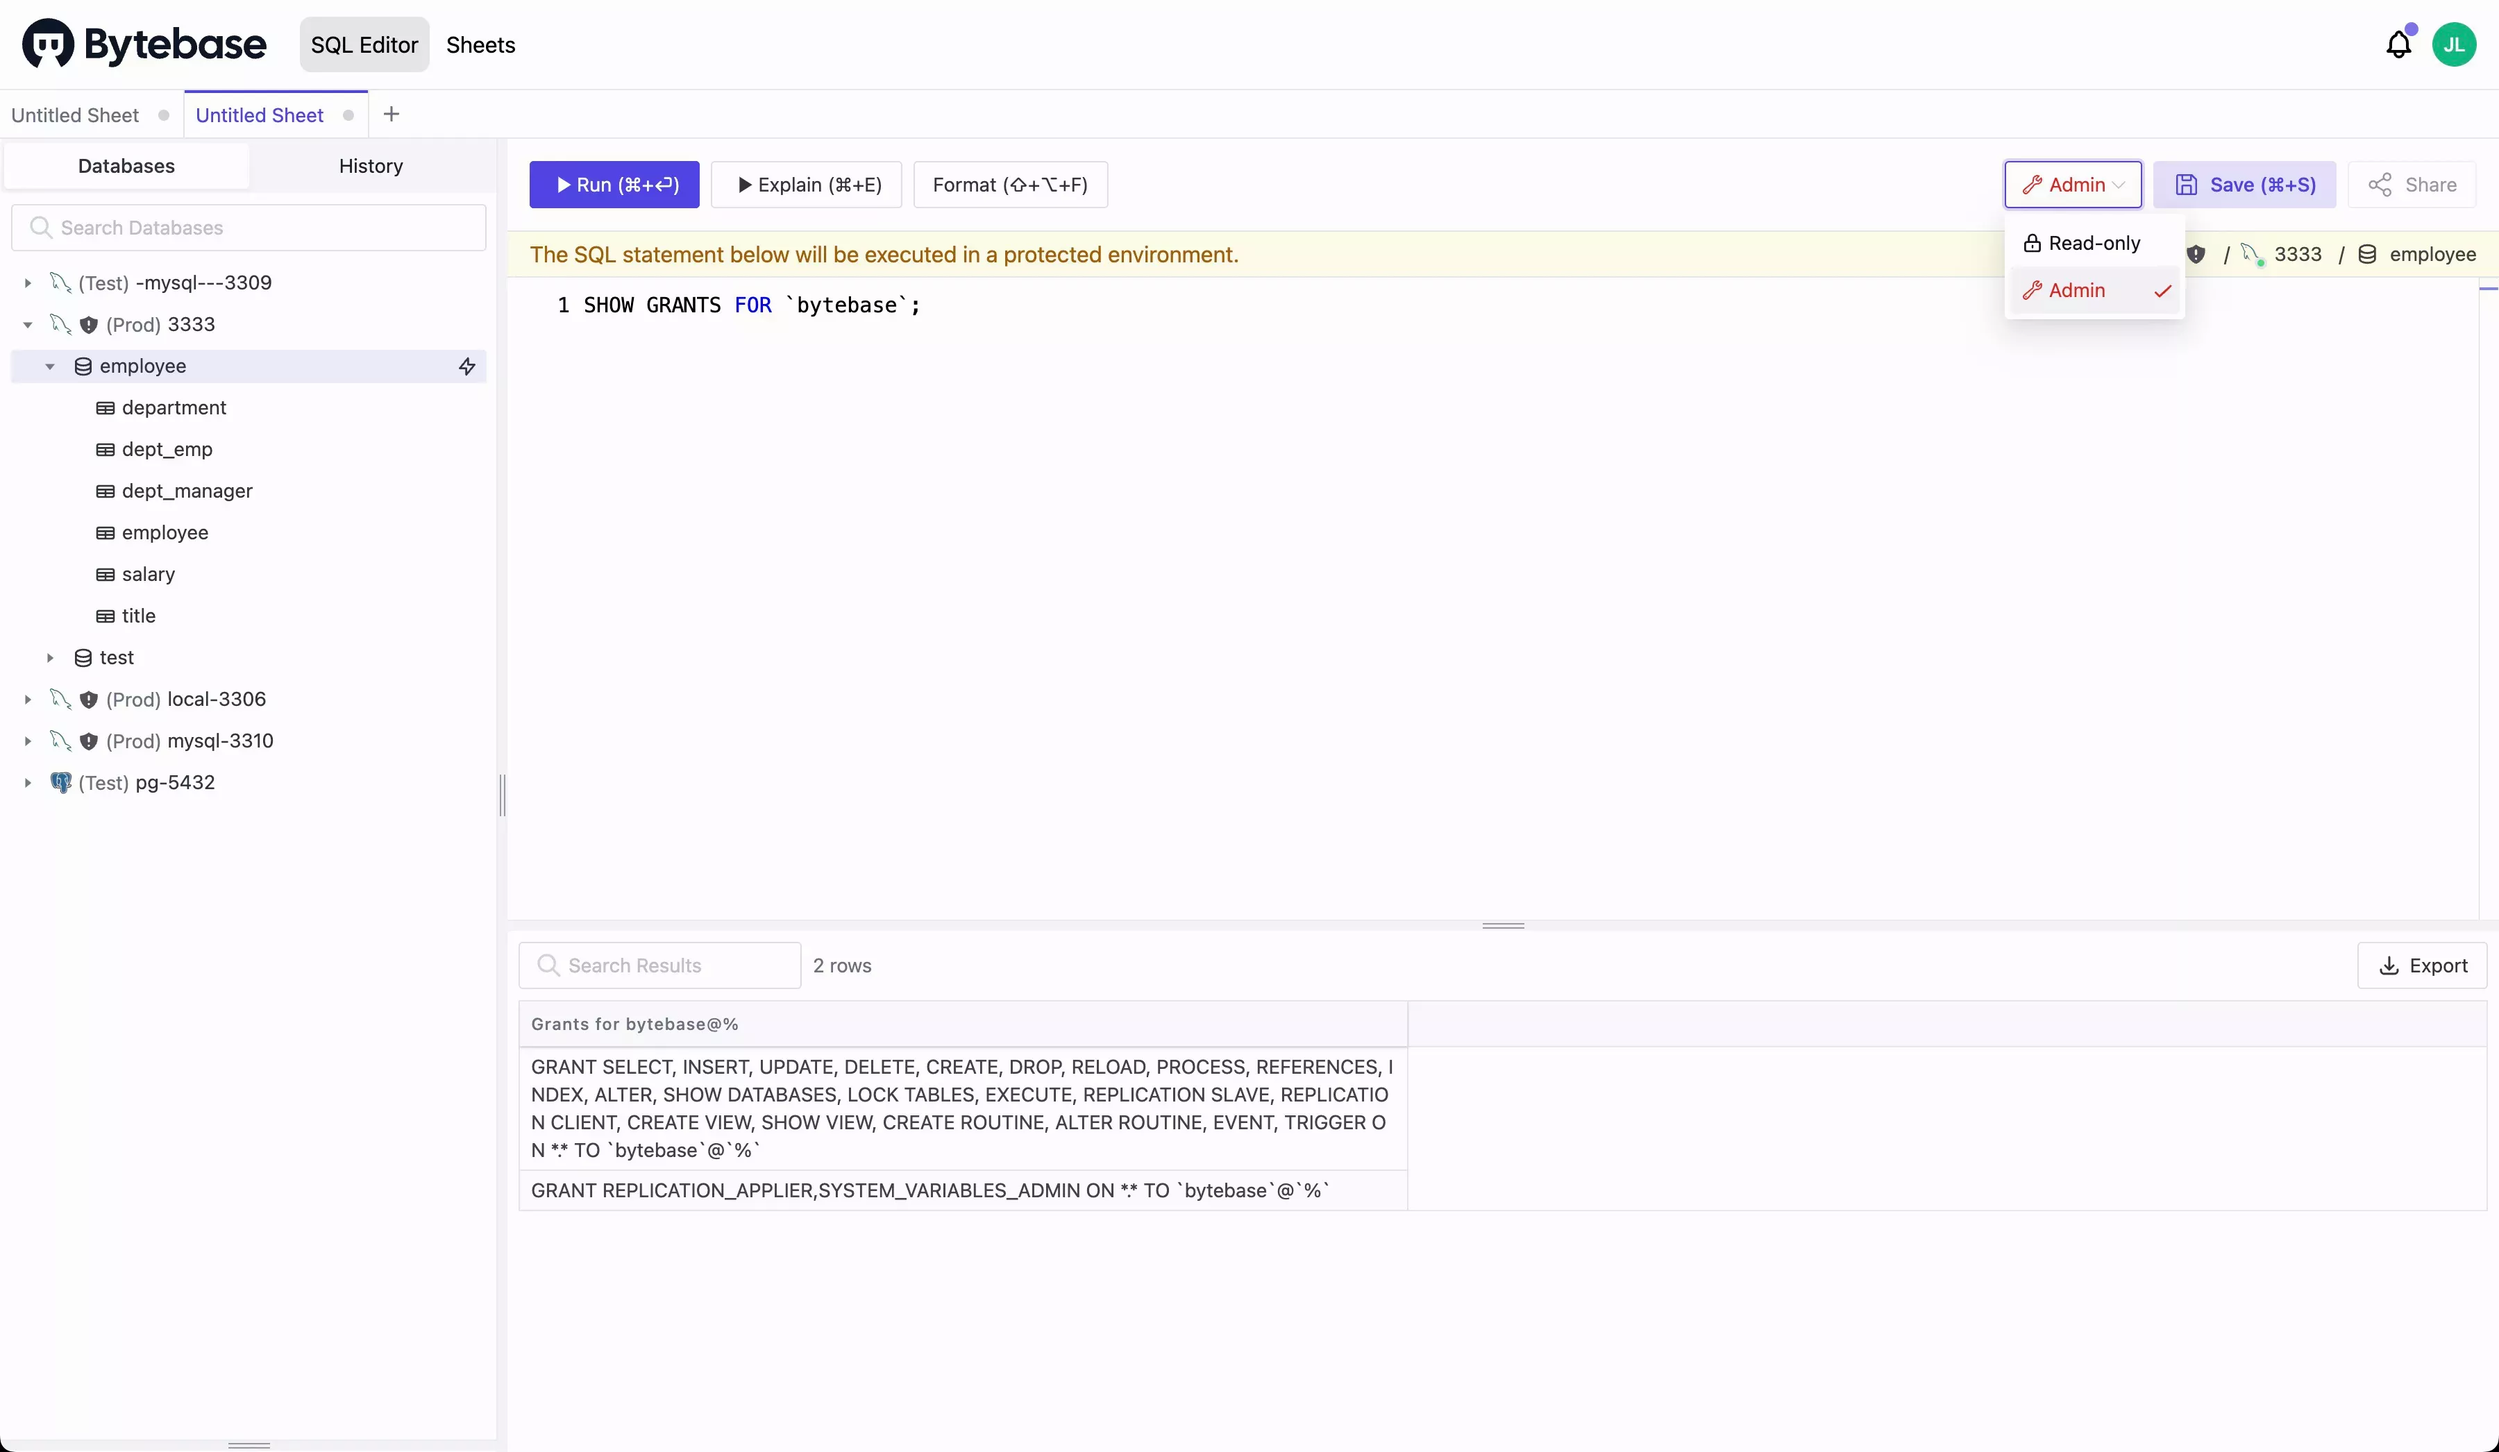
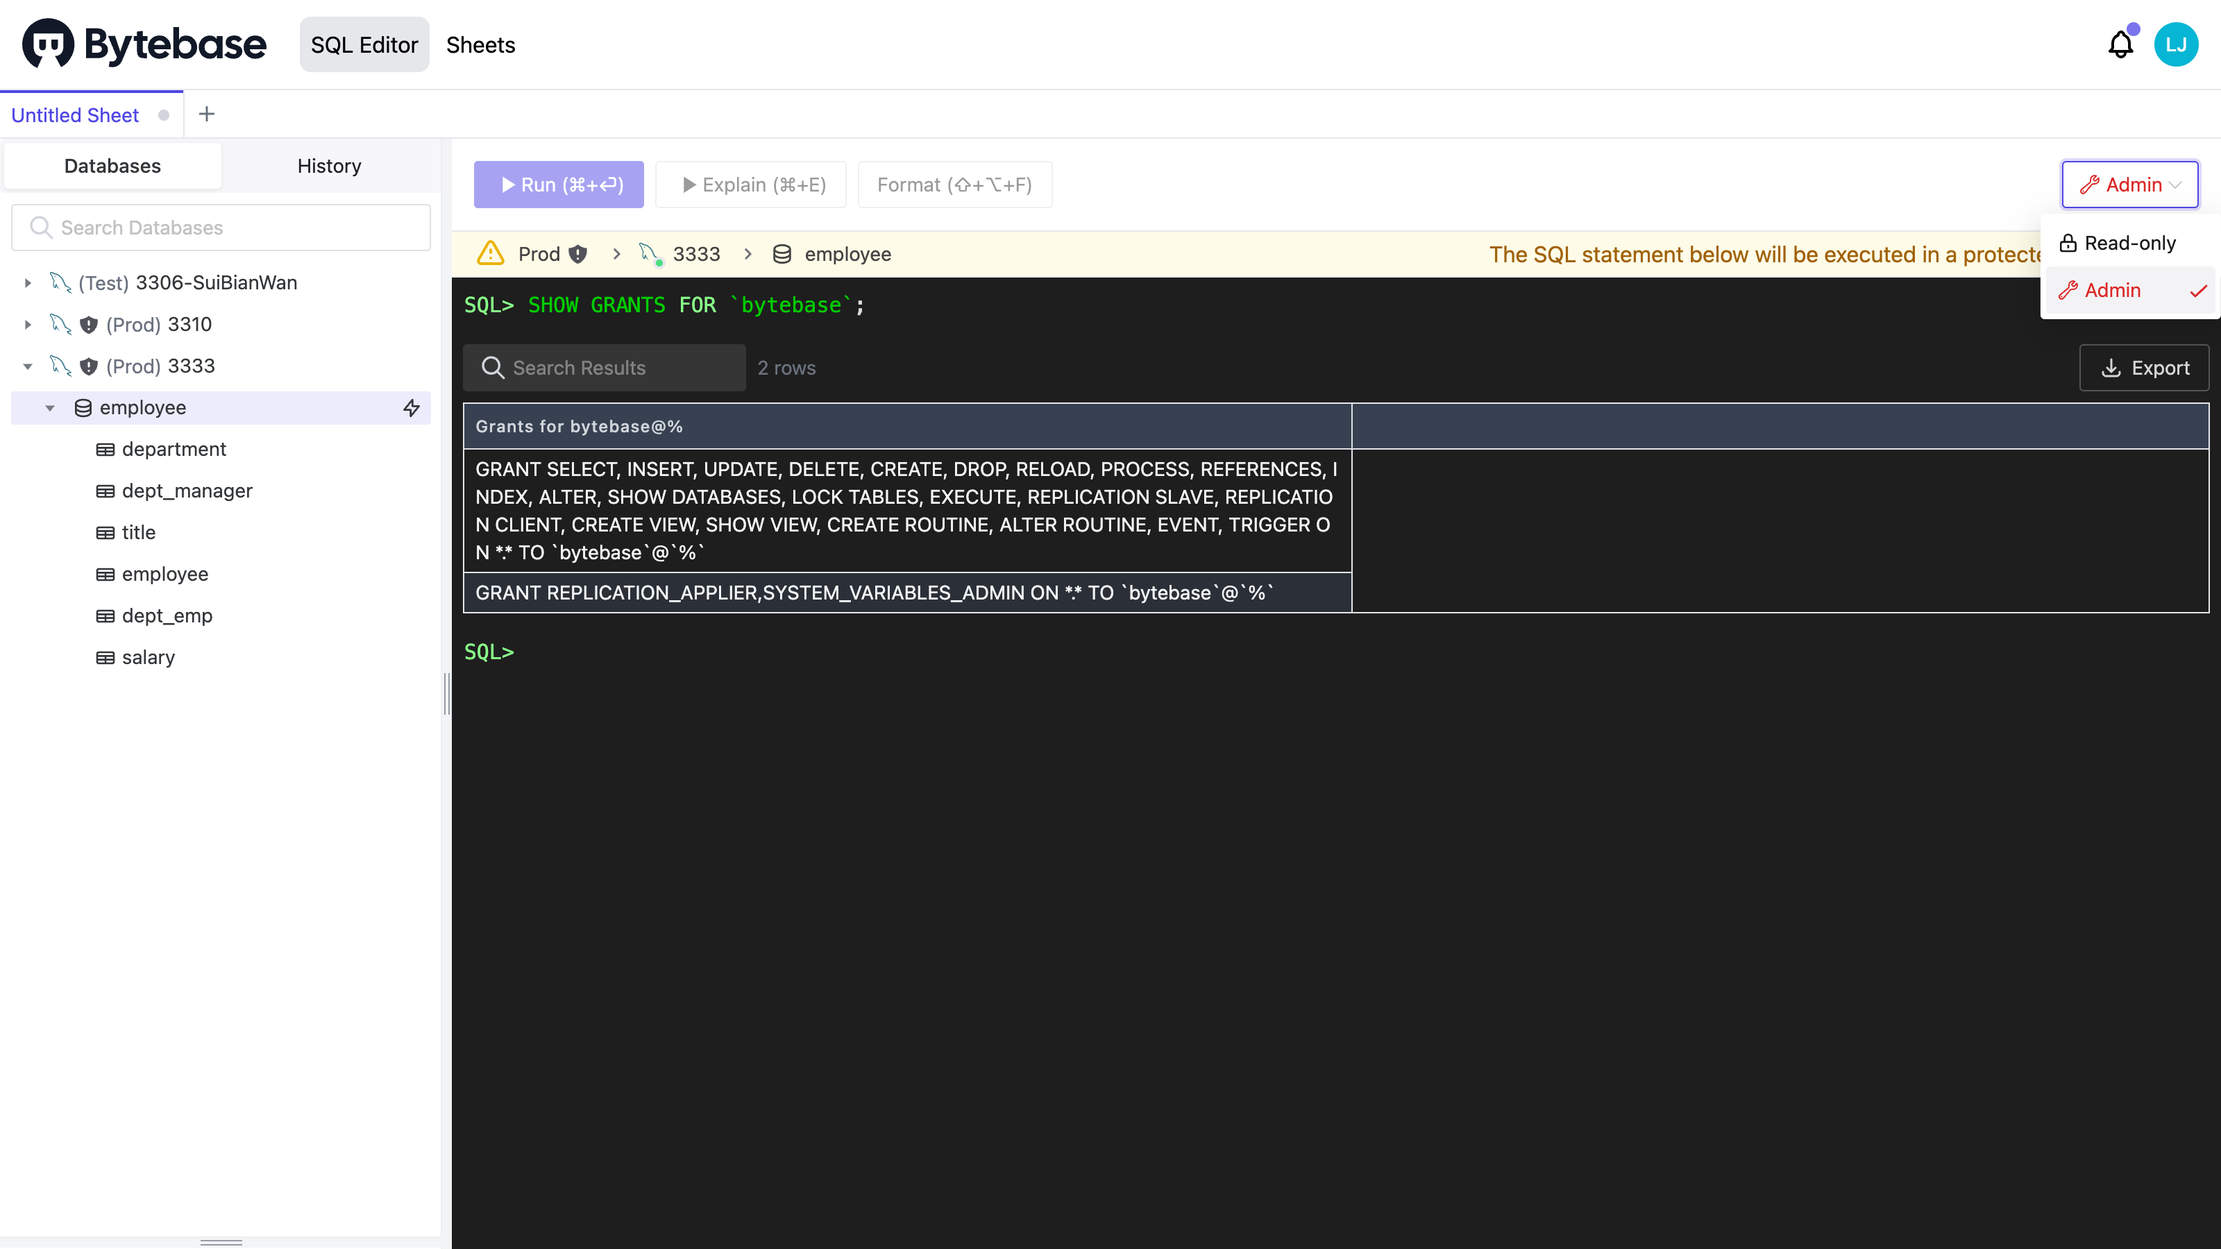
docs: update user docs and screenshots for admin mode (#667)

diff --git a/content/docs/sql-editor/run-queries.md b/content/docs/sql-editor/run-queries.md
@@ -6,6 +6,8 @@ title: Run and EXPLAIN Query
 
 Please note that SQL Editor only supports running SELECT queries now. SQL will detect your SQL queries. If you are running DDL or DML change queries, it will prompt you to create a new issue to start the SQL review process.
 
+Workspace owners and DBAs are allowed to execute any SQL statements in [Admin Mode](/docs/sql-editor/admin-mode).
+
 </hint-block>
 
 ## Run query
